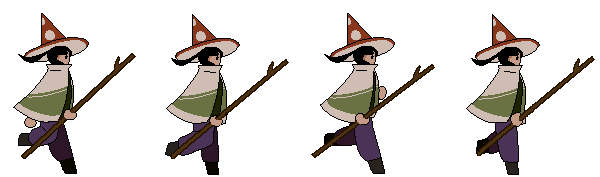
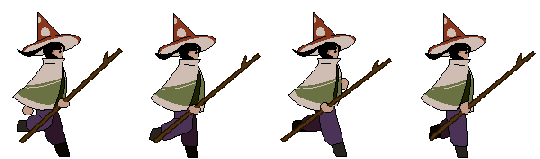
добавлена анимация

diff --git a/main3.py b/main3.py
@@ -5,16 +5,11 @@ import pygame as pg
 from pygame import time
 
 
-# import pyganim
-# import arcade
-
-
 def load_image(name):
     filename = os.path.join('data', name)
     try:
         image = pg.image.load(filename)
     except pg.error as error:
-        print('Не могу загрузить изображение:', name)
         raise SystemExit(error)
     return image
 
@@ -51,6 +46,17 @@ def generate_level(level):
     return data_lst
 
 
+# разрезание листа с картинками на отдельные кадры
+def animasprite(sheet, cols, rows, x, y):
+    frames = []
+    rect = pg.Rect(0, 0, sheet.get_width() // cols, sheet.get_height() // rows)
+    for j in range(rows):
+        for i in range(cols):
+            frame_location = (rect.w * i, rect.h * j)
+            frames.append(sheet.subsurface(pg.Rect(frame_location, rect.size)))
+    return frames
+
+
 class Tile(pg.sprite.Sprite):
     def __init__(self, tile_type, pos_x, pos_y):
         super().__init__()
@@ -79,7 +85,6 @@ class Camera:
         # лимит
         x = min(0, x)  # лево
         y = min(0, y)  # верх
-        # x = max((self.width - run.width), x)  # право
         self.camera = pg.Rect(x, y, self.width, self.height)
 
 
@@ -88,20 +93,27 @@ class Player(pg.sprite.Sprite):
         pg.sprite.Sprite.__init__(self)
         self.game = game
         # спрайт игрока
-        self.image = load_image('stand.png')
-        self.rect = pg.rect.Rect((0, 0), (80, 165))
+        self.stand = load_image('stand.png')
+        self.image = self.stand
+        self.rect = pg.rect.Rect((0, 0), (60, 100))
+        self.pos = vec(200, 700)
         # трение
         self.friction = -0.12
-        self.pos = vec(0, 0)
         # скорость передвижения игрока
         self.vel = vec(0, 0)
         # ускорение
         self.acc = vec(0, 0)
-        # переменные для анимации
+        # переменные для анимации, списки с кадрами
         self.walking = False
-        self.jumping = False
+        self.walk_r_lst = animasprite(load_image('walk.png'), 4, 1, 0, 0)
+        self.walk_l_lst = list()
+        for frame in self.walk_r_lst:
+            self.walk_l_lst.append(pg.transform.flip(frame, True, False))
+        # счетчик кадров
         self.current_frame = 0
         self.last_update = 0
+        # в какую сторону смотрит игрок
+        self.look = 0
 
     def jump(self):
         # стоит ли игрок на поверхности
@@ -112,22 +124,52 @@ class Player(pg.sprite.Sprite):
             self.vel.y = -20
 
     def update(self):
+        self.animate()
         self.acc = vec(0, 0.7)
         # считывание нажатий кнопок передвижения
         key = pg.key.get_pressed()
         if key[pg.K_LEFT] or key[pg.K_a]:
-            self.acc.x = -0.6
+            self.acc.x = -0.65
+            self.look = 1
         if key[pg.K_RIGHT] or key[pg.K_d]:
-            self.acc.x = 0.6
-        # обновление координат игрока
-        # применение трения
+            self.acc.x = 0.65
+            self.look = 0
+        # ничего не получается :(
+        # обновление координат игрока, применение трения
         self.acc.x += self.vel.x * self.friction
         # выравнивание скорости + инерция
         self.vel += self.acc
+        if abs(self.vel.x) < 0.1:
+            self.vel.x = 0
         self.pos += self.vel + 0.5 * self.acc
-
         self.rect.midbottom = self.pos
 
+    def animate(self):
+        current = pg.time.get_ticks()
+        if self.vel.x != 0:
+            self.walking = True
+        else:
+            self.walking = False
+        # анимация ходьбы
+        if self.walking:
+            bottom = self.rect.bottom
+            if current - self.last_update > 190:
+                self.last_update = current
+                self.current_frame = (self.current_frame + 1) % len(self.walk_r_lst)
+                if self.vel.x > 0:
+                    self.image = self.walk_r_lst[self.current_frame]
+                else:
+                    self.image = self.walk_l_lst[self.current_frame]
+                self.rect = self.image.get_rect()
+                self.rect.bottom = bottom
+        if not self.walking:
+            bottom = self.rect.bottom
+            if self.look == 0:
+                self.image = self.stand
+            else:
+                self.image = pg.transform.flip(self.stand, True, False)
+            self.rect = self.image.get_rect()
+            self.rect.bottom = bottom
 
 def terminate():
     # Определяем отдельную функцию выхода из игры
@@ -140,7 +182,7 @@ vec = pg.math.Vector2
 
 
 def start_screen():
-    # Выводим изображение заставки:
+    # заставка
     start_screen_background = load_image('start-screen.jpg')
     run.screen.blit(start_screen_background, (0, 0))
     while True:
@@ -156,7 +198,7 @@ class Game:
     def __init__(self):
         self.running = True
         pg.init()
-        pg.display.set_caption('test')
+        pg.display.set_caption('Roota`s adventure')
         size = self.width, self.height = 1200, 800
         self.clock = pg.time.Clock()
         self.screen = pg.display.set_mode(size)
@@ -172,11 +214,12 @@ class Game:
             'dirt_edge': load_image('dark_dirt_edge_right.png'),
             'dirt_edge2': load_image('dark_dirt_edge_left.png'),
         }
-        # Задаём размер тайлов:
+        # размер тайлов:
         self.tile_width = self.tile_height = 70
-        # Группа:
+        # Группы:
         self.tiles_group = pg.sprite.Group()
         self.all_sprites = pg.sprite.Group()
+        self.mobs = pg.sprite.Group()
         # генерация уровня
         self.levelmap = load_level('level-01.map')
         data_lst = generate_level(self.levelmap)
@@ -207,9 +250,9 @@ class Game:
         # проверка коллюжена
         hits = pg.sprite.spritecollide(self.player, self.tiles_group, False)
         if hits:
-            self.player.pos.y = hits[0].rect.y
-            self.player.vel.y = 0
-            # ничего не получается :((
+            if self.player.vel.y >= 0:
+                self.player.pos.y = hits[0].rect.y
+                self.player.vel.y = 0
 
     def events(self):
         # цикл с событиями
@@ -222,6 +265,7 @@ class Game:
             if event.type == pg.KEYDOWN:
                 if event.key == pg.K_SPACE:
                     self.player.jump()
+                    pass
 
     def draw(self):
         # прорисовка
@@ -229,8 +273,6 @@ class Game:
         for sprite in self.all_sprites:
             self.screen.blit(sprite.image, self.camera.apply(sprite))
         pg.display.flip()
-
-
 
     def show_go_screen(self):
         pass

diff --git a/animation_test.py b/animation_test.py
@@ -42,10 +42,10 @@ if __name__ == '__main__':
     size = width, height = 200, 200
     screen = pg.display.set_mode(size)
     all_sprites = pg.sprite.Group()
-    sheet_dragon = load_image('walk.png')
-    cols, rows = (4, 1)
+    sheet_dragon = load_image('enemy_move.png')
+    cols, rows = (2, 1)
     x, y = (0, 0)
-    sprite_ = AnimaSprite(sheet_dragon, 4, 1, 0, 0)
+    sprite_ = AnimaSprite(sheet_dragon, 2, 1, 0, 0)
     fps = 5
     running = True
     while running:
